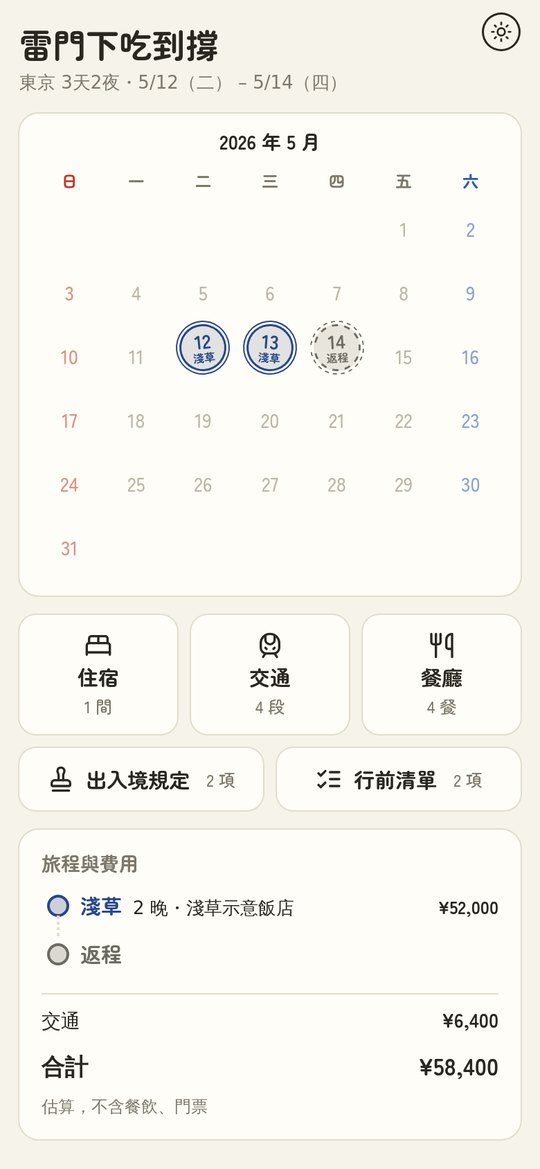
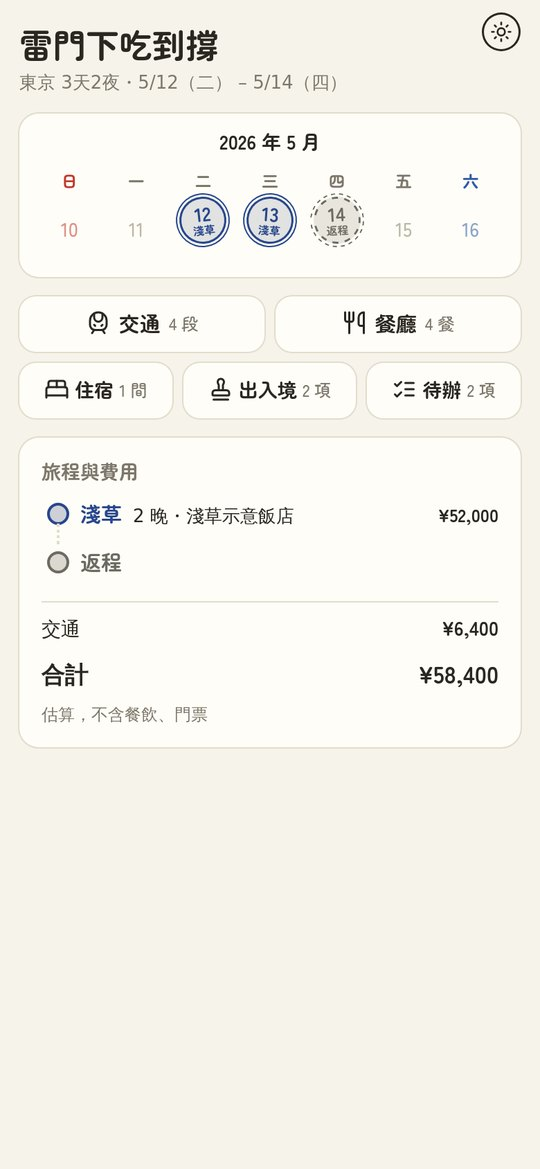
fix(reader): the phone home gives 旅程與費用 its room back (v3.1.2)
Since 交通 / 餐廳 joined the tiles, a trip with several stays lost its stay
list and total off the phone home. The user's picks on the design board:

- H1: the month card draws only the trip weeks (month_calendar marks the
  rest `ow`, the phone hides them; the desktop keeps the whole month), and
  the stay list keeps a floor of 86 px (two rows and a fade) with the total
  on screen; below the floor the home scrolls. CSS alone cannot say "content
  height, never below X" for a flex card, so the card's floor is summed from
  its parts' type (same in WebKit and Chromium).
- T1: the tiles are two rows of 40 px bars, 交通 / 餐廳 first, then 住宿 /
  出入境 / 待辦 as wide as their words; ink centred within 0.7 px (WebKit).
- W1: the phone's tiles say 出入境 / 待辦 so two-digit counts fit at 375 px;
  screen titles and the desktop keep the full names.
- A week of seven stamps no longer collapses to 34 px on the phone.

Guards injected with each bug went red (long names 8, no floor 6, no fixed
rows 2). Two older browser tests migrated: tile heights 86/45 -> 40, and the
home stamp's double-tap (the second tap now lands on another page).

README check: home line + phone-home shot updated; diagram/stop list still match.

Claude-Session: https://claude.ai/code/session_018PWF1vJ629UGLf2HycuCMa

diff --git a/tests_browser/test_reader_home_squeeze.py b/tests_browser/test_reader_home_squeeze.py
@@ -1,0 +1,173 @@
+"""The phone home gives its room back to 旅程與費用 (the user's picks on the design board:
+H1 + T1 + W1). The month card draws only the weeks that hold trip days (the day pages'
+mini calendar already does); the five tiles become two rows of 40 px bars -- 交通 / 餐廳
+first, then 住宿 / 出入境 / 待辦 as wide as their words; the stay list keeps a floor of
+two rows, below which the home scrolls instead. The desktop keeps its whole month,
+its tiles and their full names. WebKit (the iPhone) decides where the engines differ."""
+import io
+
+import pytest
+from conftest import DESKTOP, PHONE
+
+SE = {"width": 390, "height": 667}
+NARROW = {"width": 375, "height": 667}
+
+ROWS = """(()=>{const g=document.querySelector('.page.home .months .g');
+  return getComputedStyle(g).gridTemplateRows.split(' ').map(parseFloat)})()"""
+WEEKS = """(()=>{const s=new Set();document.querySelectorAll('.page.home .months .g>:not(.wd)').forEach(e=>{
+  const r=e.getBoundingClientRect();if(r.width>0&&!e.matches('.stamp'))s.add(Math.round(r.top))});
+  return s.size})()"""
+
+
+def _page(browser, url, vp, js=False):
+    pg = browser.new_page(viewport=vp, java_script_enabled=js)
+    pg.goto(url)
+    return pg
+
+
+# literals because these are the trips' calendars, counted by hand: bookings 5/12-14 (one
+# week), many stays 11/9-19 (two), rings 8/17-31 (three), two months 8/30-9/1 (one, where
+# the shipped page padded it to five)
+@pytest.mark.parametrize("fx,weeks", [("bookings_url", 1), ("many_stays_url", 2), ("long_rings_url", 3),
+                                      ("two_month_url", 1)])
+def test_the_phone_month_card_draws_only_the_trip_weeks(browser, request, fx, weeks):
+    pg = _page(browser, request.getfixturevalue(fx), PHONE)
+    rows = pg.evaluate(ROWS)
+    assert len(rows) == 1 + weeks, (browser.engine, fx, rows)          # the weekday row + the trip weeks
+    pg.close()
+
+
+def test_the_desktop_keeps_the_whole_month(browser, long_rings_url):
+    pg = _page(browser, long_rings_url, DESKTOP)
+    assert pg.evaluate(ROWS)[1:] and len(pg.evaluate(ROWS)) == 7, browser.engine     # August 2026: six weeks
+    pg.close()
+
+
+def test_a_week_of_stamps_keeps_its_row_height(browser, long_rings_url):
+    """8/23-29 is all trip days: the row fell to the stamp's 34 px and the rings touched."""
+    pg = _page(browser, long_rings_url, PHONE)
+    weeks = pg.evaluate(ROWS)[1:]
+    assert weeks and len(set(weeks)) == 1, (browser.engine, weeks)
+    pg.close()
+
+
+TILES = """(()=>[...document.querySelectorAll('.page.home .tiles .tile')].map(t=>{const r=t.getBoundingClientRect();
+  return {pg:t.htmlFor,name:t.querySelector('b').innerText.trim(),x:r.left,y:r.top,w:r.width,h:r.height,
+          clip:t.scrollWidth>t.clientWidth+0.5}}))()"""
+
+
+@pytest.mark.parametrize("vp", [PHONE, NARROW, {"width": 844, "height": 390}, {"width": 1023, "height": 700}],
+                         ids=["390", "375", "landscape", "1023"])
+def test_the_phone_tiles_are_two_rows_of_bars(browser, bookings_url, vp):
+    pg = _page(browser, bookings_url, vp)
+    t = {x["pg"]: x for x in pg.evaluate(TILES)}
+    top = [t["pg-transport"], t["pg-meals"]]
+    low = [t["pg-lodging"], t["pg-advisory"], t["pg-checklist"]]
+    assert all(round(x["h"]) == 40 for x in t.values()), (browser.engine, t)
+    assert top[0]["y"] == top[1]["y"] < low[0]["y"] == low[1]["y"] == low[2]["y"], (browser.engine, t)
+    assert abs(top[0]["w"] - top[1]["w"]) < 1 and top[0]["x"] < top[1]["x"], t
+    assert low[0]["x"] < low[1]["x"] < low[2]["x"], t
+    assert not [x for x in t.values() if x["clip"]], t
+    pg.close()
+
+
+def test_the_lower_row_is_as_wide_as_its_words(browser, bookings_url):
+    pg = _page(browser, bookings_url, PHONE)
+    t = {x["pg"]: x for x in pg.evaluate(TILES)}
+    assert abs(t["pg-lodging"]["w"] - t["pg-checklist"]["w"]) < 1 and t["pg-checklist"]["w"] < t["pg-advisory"]["w"], t   # 住宿 / 待辦: two characters each
+    pg.close()
+
+
+TWO_DIGITS = """(()=>{const s=(p,v)=>{document.querySelector(`.page.home label.tile[for=${p}] small`).innerHTML=v};
+  s('pg-lodging','12 間');s('pg-advisory','14 項');s('pg-checklist','28 項');
+  s('pg-transport','16 段<i class="todo">・12 待訂</i>');s('pg-meals','24 餐<i class="todo">・12 待訂</i>')})()"""
+
+
+@pytest.mark.parametrize("vp", [PHONE, NARROW], ids=["390", "375"])
+def test_two_digit_counts_still_fit_two_rows(browser, bookings_url, vp):
+    """The user's catch on the board: with two-digit counts 行前清單 fell to a third row."""
+    pg = _page(browser, bookings_url, vp, js=True)
+    pg.evaluate(TWO_DIGITS)
+    t = pg.evaluate(TILES)
+    assert len({round(x["y"]) for x in t}) == 2 and not [x for x in t if x["clip"]], (browser.engine, t)
+    pad = pg.evaluate("""(()=>[...document.querySelectorAll('.page.home .tiles .tile')].map(t=>{const r=t.getBoundingClientRect();
+      const k=[...t.children].map(c=>c.getBoundingClientRect()).filter(c=>c.width);
+      return Math.min(Math.min(...k.map(c=>c.left))-r.left, r.right-Math.max(...k.map(c=>c.right)))}))()""")
+    assert min(pad) >= 10, (browser.engine, pad)                # the board measured 12.8 px at 375
+    pg.close()
+
+
+@pytest.mark.parametrize("vp,names", [(PHONE, ["住宿", "交通", "餐廳", "出入境", "待辦"]),
+                                      (DESKTOP, ["住宿", "交通", "餐廳", "出入境規定", "行前清單"])],
+                         ids=["phone", "desktop"])
+def test_the_tile_names(browser, bookings_url, vp, names):
+    """W1: the phone's tiles say 出入境 / 待辦; the desktop and both screens' titles keep the full names."""
+    pg = _page(browser, bookings_url, vp)
+    assert [x["name"] for x in pg.evaluate(TILES)] == names, browser.engine
+    pg.evaluate("document.getElementById('pg-checklist').checked=true")
+    assert pg.evaluate("document.querySelector('section[data-pg=checklist] h2').innerText") == "行前清單"
+    pg.close()
+
+
+def _ink(pg, rect, dpr, thr):
+    from PIL import Image
+    x, y, w, h = rect
+    im = Image.open(io.BytesIO(pg.screenshot(clip={"x": x, "y": y - 4, "width": w, "height": h + 8}))).convert("L")
+    rows = [r for r in range(im.height) if any(im.getpixel((c, r)) < thr for c in range(im.width))]
+    return y - 4 + (rows[0] + rows[-1] + 1) / 2 / dpr
+
+
+ONE = "sel => { const r = document.querySelector(sel).getBoundingClientRect(); return [r.x, r.y, r.width, r.height] }"
+
+
+def test_each_tile_centres_its_ink(browser, bookings_url):
+    """Icon, name and count share the bar's centre: the board measured them within 0.7 px in
+    WebKit (Chromium 1.0) once the bar's foot took 2 px (the CJK ink sat 1.3 px low)."""
+    dpr = 3
+    pg = browser.new_page(viewport=PHONE, device_scale_factor=dpr, java_script_enabled=False)
+    pg.goto(bookings_url)
+    for p in ("pg-lodging", "pg-transport", "pg-meals", "pg-advisory", "pg-checklist"):
+        s = f".page.home label.tile[for={p}]"
+        t = pg.evaluate(ONE, s)
+        mid = t[1] + t[3] / 2
+        sm = pg.evaluate(ONE, s + " small")
+        got = [_ink(pg, pg.evaluate(ONE, s + " .lu"), dpr, 170), _ink(pg, pg.evaluate(ONE, s + " b"), dpr, 110),
+               _ink(pg, [sm[0], sm[1], 20, sm[3]], dpr, 200)]
+        assert all(abs(g - mid) <= 1.0 for g in got), (browser.engine, p, [round(g - mid, 2) for g in got])
+    pg.close()
+
+
+LIST = """(()=>{const H=innerHeight,c=document.querySelector('.page.home .trip'),ol=c.querySelector('ol'),
+  sum=c.querySelector('.tt.sum'),home=document.querySelector('.page.home');const o=ol.getBoundingClientRect();
+  const li=ol.querySelector('li').getBoundingClientRect().height;
+  return {rows:ol.clientHeight/li,all:ol.scrollHeight<=ol.clientHeight+1,
+          sum:sum.getBoundingClientRect().bottom<=H+1,scrolls:home.scrollHeight>home.clientHeight+1}})()"""
+
+
+@pytest.mark.parametrize("vp", [PHONE, {"width": 390, "height": 750}, SE], ids=["844", "750", "667"])
+def test_the_stay_list_keeps_two_rows_and_the_total(browser, many_stays_url, vp):
+    """Ten stays: the list scrolls inside itself, but never below two rows, and the total
+    stays on the screen on every iPhone height."""
+    pg = _page(browser, many_stays_url, vp)
+    m = pg.evaluate(LIST)
+    assert m["rows"] >= 2 - 0.05 and m["sum"] and not m["scrolls"], (browser.engine, vp, m)
+    pg.close()
+
+
+def test_a_screen_too_short_for_the_floor_scrolls_the_home(browser, many_stays_url):
+    """Held sideways the floor does not fit: the home scrolls rather than squeeze the list."""
+    pg = _page(browser, many_stays_url, {"width": 844, "height": 390})
+    m = pg.evaluate(LIST)
+    assert m["rows"] >= 2 - 0.05 and m["scrolls"], (browser.engine, m)
+    # the card's floor is summed from its parts' type (theme.py): it must end where its note ends
+    gap = pg.evaluate("""(()=>{const c=document.querySelector('.page.home .trip'),r=c.getBoundingClientRect();
+      return r.bottom-parseFloat(getComputedStyle(c).paddingBottom)-c.lastElementChild.getBoundingClientRect().bottom})()""")
+    assert abs(gap) <= 0.5, (browser.engine, gap)
+    pg.close()
+
+
+def test_a_short_stay_list_shows_whole(browser, bookings_url):
+    """The one-stay card fits whole with no inner scroll (nothing faded away)."""
+    pg = _page(browser, bookings_url, PHONE)
+    assert pg.evaluate(LIST)["all"], browser.engine
+    pg.close()

diff --git a/scripts/render/reader/theme.py b/scripts/render/reader/theme.py
@@ -225,7 +225,7 @@ details[open]>summary>.cv{{transform:rotate(-135deg);margin-top:-2px}}
 
 # The phone (spec v1.1 §3–§7): the page never scrolls. A day stacks the dashboard's three
 # blocks -- fixed header (.pcal), fixed map row (.pmap), and the list card (.plist), the
-# only scroller; the home is one screen; the toggle sits top-right; the map card drops
+# only scroller; the home is one screen (it scrolls only when the stay list would drop below two rows); the toggle sits top-right; the map card drops
 # prev/next and the legend and fills its width with a 4:3 frame. Ported from the decided
 # mockup (docs/superpowers/mockups/v11/gen_skeleton.py).
 PHONE_CSS = """
@@ -315,7 +315,20 @@ body:has(.pgf:checked) .page.day .unf::after{content:"";position:absolute;right:
 .page.home .month{background:var(--card);border-radius:14px;box-shadow:0 0 0 1px var(--rule);padding:10px 12px 12px}
 /* v1.1 topic 6 (pick P1): the day page mini stamp's proportion -- 14 px date in 34 px */
 .page.home .months .stamp{width:34px;height:34px}
-.page.home .hwrap{display:flex;flex-direction:column}.page.home .hside{display:contents}.page.home .ttl{order:1}.page.home .hcal{order:2}.page.home .tiles{order:3}.page.home .trip{order:4;background:var(--card);border-radius:14px;box-shadow:0 0 0 1px var(--rule);padding:14px 16px}.page.home .trip ol{max-height:168px;overflow:auto}.page.home .trip li{grid-template-columns:auto minmax(0,1fr) auto;align-items:baseline;padding-bottom:12px}.page.home .trip li b{font-size:15px}.page.home .trip li span{grid-column:2;grid-row:1;font-size:13px}.page.home .trip li em{grid-column:3;font-size:13px}.page.home .trip li::before{top:3px}.page.home .trip li:not(:last-child)::after{top:18px}
+/* the user's pick H1: the home's month card draws only the weeks that hold trip days, as the day
+   pages' mini calendar does; every week row keeps 46 px (a week of seven stamps drew 34, rings touching) */
+.page.home .months .g{grid-template-rows:24px;grid-auto-rows:46px}.page.home .months .g>.ow{display:none}
+/* the stay list's floor (H1): three stays or more, the list keeps 86 px -- two rows and the fade of a
+   third, as the board showed at 667 -- and the card keeps that list plus its own parts, whose heights
+   follow from their type (the same in WebKit and Chromium: padding 2 x 14, title 20 + 10, a total
+   row 8 + its line, the note 6 + its line, the rule above the first total 4 + 1). A flex card cannot
+   say "my content, but never below this" by itself: its smallest size is its whole list. Below the
+   floor the home scrolls (it has overflow-y: auto) */
+.page.home .trip:has(ol>li:nth-child(3)){min-height:calc(2 * 14px + 20px + 10px + 86px + var(--fl, 0px))}
+.page.home .trip:has(ol>li:nth-child(3)) ol{min-height:86px}
+.page.home .trip:has(.tt.sum){--fl:calc(4px + 1px + 8px + 17px * 1.6 + 6px + 12px * 1.6)}
+.page.home .trip:has(.tt:not(.sum)){--fl:calc(4px + 1px + 8px + 14px * 1.6 + 8px + 17px * 1.6 + 6px + 12px * 1.6)}
+.page.home .hwrap{display:flex;flex-direction:column}.page.home .hside{display:contents}.page.home .ttl{order:1}.page.home .hcal{order:2}.page.home .tiles{order:3}.page.home .trip{order:4;background:var(--card);border-radius:14px;box-shadow:0 0 0 1px var(--rule);padding:14px 16px}.page.home .trip{display:flex;flex-direction:column}.page.home .trip h3{line-height:20px}.page.home .trip ol{flex:0 1 auto;min-height:0;overflow:auto}.page.home .trip li{grid-template-columns:auto minmax(0,1fr) auto;align-items:baseline;padding-bottom:12px}.page.home .trip li b{font-size:15px}.page.home .trip li span{grid-column:2;grid-row:1;font-size:13px}.page.home .trip li em{grid-column:3;font-size:13px}.page.home .trip li::before{top:3px}.page.home .trip li:not(:last-child)::after{top:18px}
 .page.sub .ovbox{height:100%;display:flex;flex-direction:column}
 /* v2.2 (the user's pick C1): a sub page's top row is a day page's -- 「‹ 總覽」 at the top left, the
    title centred on the screen (1fr auto 1fr, the theme bubble floats over the right column) */

diff --git a/scripts/render/reader/bookings.py b/scripts/render/reader/bookings.py
@@ -59,7 +59,7 @@ def meals_screen(ctx):
 
 
 # the approved look (design board): the reader's own tokens only. Shared rules here; the
-# phone's 3 + 2 tile grid sits in the phone media block (the desktop keeps one per row).
+# phone's 2 + 3 tile rows sit in the phone media block (the desktop keeps one per row).
 CSS = """
 .bkd{font:700 15px var(--f-round);margin:14px 2px 6px}.bkd:first-child,.ft+.bkd{margin-top:4px}
 .bkrow summary,div.ci.bkrow{gap:2px}div.ci.bkrow{padding:10px 34px 10px 12px}
@@ -81,13 +81,20 @@ CSS = """
 .sgt{display:inline-block;margin-right:6px;font:700 11px var(--f-round);line-height:16px;padding:0 6px;border-radius:999px;color:var(--opt);border:1.5px solid var(--opt);vertical-align:1px}
 .lbk{display:flex;align-items:center;gap:6px;margin-top:4px;font-size:12.5px;color:var(--mut)}
 .lbk .bk{font-size:11px;line-height:16px;padding:0 6px}
-@media (max-width:1023px){.tiles{grid-template-columns:repeat(6,1fr)}.tiles .tile{grid-column:span 2}
-/* the user's pick C: the phone home stays one screen. 住宿 / 交通 / 餐廳 (used on the road) keep the
-   tall tile; 出入境規定 / 行前清單 take the desktop's bar (45 px), and when the screen is still short
-   the 旅程與費用 card gives up height first and scrolls inside itself -- its text never draws
-   outside the card (the user's call; a floor for the stay list is left to a later version) */
-.tiles .tile:nth-child(n+4){grid-column:span 3;flex-direction:row;justify-content:center;gap:8px;padding:12px}
-.tiles .tile:nth-child(n+4) small{margin-left:4px}
+.tile .tns{display:none}
+@media (max-width:1023px){
+/* the user's picks T1 + W1 (design board): two rows of 40 px bars -- 交通 / 餐廳 (used on the road,
+   their 待訂 needs the room) share the first row, 住宿 / 出入境 / 待辦 the second, each as wide as
+   its words. Each bar's foot takes 2 px: a CJK line's ink sits 1.3 px below its box's middle
+   (WebKit, measured on the board), so icon, name and count now centre on the bar. */
+.tiles{display:flex;flex-wrap:wrap;gap:8px}
+.tiles .tile{flex:1 1 auto;flex-direction:row;justify-content:center;align-items:center;gap:4px;height:40px;
+  padding:0 6px 2px;white-space:nowrap;font-size:14px}
+.tiles .tile .lu{width:18px;height:18px}
+.tiles :is(.tile[for=pg-transport],.tile[for=pg-meals]){order:-1;flex:1 1 calc(50% - 4px);gap:6px;padding:0 8px 2px;font-size:15px}
+.tiles .tnl{display:none}.tiles .tns{display:inline}
 .page.home .hwrap{height:100%;min-height:0}.page.home .ttl,.page.home .hcal,.page.home .tiles{flex:none}
-.page.home .trip{flex:0 1 auto;min-height:0;overflow-y:auto}}
+/* the 旅程與費用 card gives up height first, its stay list scrolling inside it, but the list keeps
+   two rows (the floor the user parked in v3.1.0); below that the home scrolls instead */
+.page.home .trip{flex:0 1 auto}}
 """

diff --git a/tests_browser/test_reader_bookings.py b/tests_browser/test_reader_bookings.py
@@ -1,5 +1,5 @@
 """交通 / 餐廳 on the shipped reader, both engines (WebKit is the iPhone): the five home tiles
-keep the old tile's size, the status pill sits on its name's line (ink, not boxes), the
+keep their bar heights, the status pill sits on its name's line (ink, not boxes), the
 desktop overlay keeps the home behind it, and the four pills stay apart in the dark theme."""
 import io
 
@@ -16,20 +16,15 @@ def _go(pg, pid):
     pg.wait_for_timeout(300)
 
 
-# 86 / 45: the tile heights before this change, measured on the shipped reader (the phone's
-# tall tile, the desktop's bar) -- literals because the sizes to keep are the old ones. The
-# phone's second row takes the desktop's bar (the user's pick C): the home must fit one screen.
-@pytest.mark.parametrize("vp,heights", [(PHONE, [86, 86, 86, 45, 45]), (DESKTOP, [45] * 5)], ids=["phone", "desktop"])
-def test_five_tiles_keep_the_old_tile_heights(browser, bookings_url, vp, heights):
+# 45: the desktop's bar, kept; the phone's tiles are two rows of 40 px bars since the user's
+# picks T1 + W1 (their geometry: tests_browser/test_reader_home_squeeze.py)
+@pytest.mark.parametrize("vp,heights", [(PHONE, [40] * 5), (DESKTOP, [45] * 5)], ids=["phone", "desktop"])
+def test_five_tiles_keep_their_heights(browser, bookings_url, vp, heights):
     pg = browser.new_page(viewport=vp)
     pg.goto(bookings_url)
     tiles = pg.evaluate(RECT, ".page.home label.tile")
     assert len(tiles) == 5
     assert [round(t[3]) for t in tiles] == heights, tiles
-    if vp is PHONE:                     # 3 + 2: the second row spans the first row's outer edges
-        a, b, c, d, e = tiles
-        assert d[0] == pytest.approx(a[0], abs=.5) and e[0] + e[2] == pytest.approx(c[0] + c[2], abs=.5)
-        assert d[2] == pytest.approx(e[2], abs=.5) and a[1] == b[1] == c[1] < d[1] == e[1]
     pg.close()
 
 
@@ -121,7 +116,8 @@ SPILL = """(()=>{const c=document.querySelector('.page.home .trip'),r=c.getBound
 
 
 # the user's call: the 旅程與費用 card may get shorter on a short screen, but its text never
-# draws outside it -- the card scrolls inside itself (the stay list's own floor is next version's)
+# draws outside it -- its stay list scrolls inside it down to a floor of two rows (H1), below
+# which the home scrolls (tests_browser/test_reader_home_squeeze.py)
 @pytest.mark.parametrize("vp", [{"width": 390, "height": 844}, {"width": 390, "height": 750},
                                 {"width": 390, "height": 667}, {"width": 844, "height": 390}],
                          ids=["844", "750", "667", "landscape"])

diff --git a/scripts/render/reader/month_calendar.py b/scripts/render/reader/month_calendar.py
@@ -97,24 +97,26 @@ def _head():
                    for k, w in enumerate(WEEKDAYS))
 
 
-def _off(date, k, plain=False):
-    return f'<span class="off{" sun" if k == 0 else " sat" if k == 6 else ""}">{_day_label(date, plain)}</span>'
+def _off(date, k, plain=False, ow=""):
+    return f'<span class="off{" sun" if k == 0 else " sat" if k == 6 else ""}{ow}">{_day_label(date, plain)}</span>'
 
 
 def _cells(week, trip, cur, month=None, rings=None, tapes=None):
     """A week of cells. With `month` the grid is that month alone: other months' days are
-    blank and its own 1st reads '1'."""
+    blank and its own 1st reads '1'. A week with no trip day marks its cells `ow`: the
+    phone's home draws only the trip weeks (the user's pick H1), the desktop all of them."""
     plain = month is not None
+    ow = "" if any(x in trip for x in week) else " ow"
     out = []
     for k, x in enumerate(week):
         if month is not None and x.month != month:
-            out.append("<span></span>")          # the other month draws its own days
+            out.append(f'<span class="{ow.strip()}"></span>' if ow else "<span></span>")   # the other month draws its own days
         elif x in trip:
             i, area, cls = trip[x]
             out.append(stamp(i, x, area, cls, cur == i, plain, (rings[i - 1] if rings and i <= len(rings) else ""),
                              tapes[i - 1] if tapes and i <= len(tapes) else None))
         else:
-            out.append(_off(x, k, plain))
+            out.append(_off(x, k, plain, ow))
     return "".join(out)
 
 

diff --git a/scripts/render/reader/home.py b/scripts/render/reader/home.py
@@ -108,7 +108,12 @@ def home(ctx):
     rings = [d.get("theme") or d.get("label") or "" for d in ctx.days]
     # v2.2: each day's tape for the day it is today (tapes.py)
     day_tapes = tapes.day_tapes(title, ctx.dates[0], [c for _, c in ctx.areas]) if ctx.dates else None
-    tiles_html = "".join(f'<label class="tile" for="{pg}">{icon(ic)}<b>{t}</b><small>{n}</small></label>'
+    # W1 (the user's pick): two-digit counts pushed the phone's third bar to a row of its own, so
+    # the phone says 出入境 / 待辦; the desktop and the screens' own titles keep the full names
+    short = {"pg-advisory": "出入境", "pg-checklist": "待辦"}
+    tiles_html = "".join(f'<label class="tile" for="{pg}">{icon(ic)}<b>'
+                         + (f'<span class="tnl">{t}</span><span class="tns">{short[pg]}</span>' if pg in short else t)
+                         + f'</b><small>{n}</small></label>'
                          for pg, ic, t, n in tiles)
     return (f'<section class="page home" data-pg="home"><div class="hwrap"><div class="hside">'
             f'<div class="ttl"><h1 class="headline">{esc(title)}</h1>'

diff --git a/tests_browser/test_reader_phone.py b/tests_browser/test_reader_phone.py
@@ -327,7 +327,11 @@ def test_a_tapped_control_neither_selects_nor_flashes(open_page, sel):
         style = close.evaluate("e=>{const s=getComputedStyle(e);return [s.webkitTapHighlightColor||'', s.webkitUserSelect||s.userSelect]}")
         assert style[0] in ("rgba(0, 0, 0, 0)", "transparent") and style[1] == "none", ("hd-close", style)
         return
-    if "tiles" not in sel:          # a tile's first tap opens its screen; the second lands there
+    # a tile's or a home stamp's first tap opens its screen and the second lands there: since the
+    # home draws only the trip weeks (H1) the first stamp sits in the top row, and the second tap
+    # met the day title's grey 「‹」 (no day before day 1; text, not a control). Their style above
+    # is what keeps them from selecting.
+    if "tiles" not in sel and ".home .month" not in sel:
         el.dblclick(force=True)
         assert pg.evaluate("String(getSelection())").strip() == "", sel
 

diff --git a/README.md b/README.md
@@ -3,7 +3,7 @@
 **用一句話請 Claude 排旅遊行程，拿到一份每個地點都查證過的行程：手機打開就能用，離線也能看。**
 
 <p align="center">
-  <img src="docs/images/readme/phone-home.jpg" width="250" alt="手機首頁：搞笑標題、紀念章月曆、住宿／交通／餐廳／出入境規定／行前清單、旅程與費用">
+  <img src="docs/images/readme/phone-home.jpg" width="250" alt="手機首頁：搞笑標題、只畫行程那幾週的紀念章月曆、交通／餐廳／住宿／出入境／待辦、旅程與費用">
   <img src="docs/images/readme/phone-day.jpg" width="250" alt="手機的每日行程：點開一站，照片、停留時間、營業時間、安排與來源">
   <img src="docs/images/readme/phone-map.jpg" width="250" alt="每日地圖：點時間膠囊跳到那一站">
 </p>
@@ -109,7 +109,7 @@ claude plugin marketplace update tripwork && claude plugin install tripwork
   <img src="docs/images/readme/phone-driver.jpg" width="250" alt="給司機看：全螢幕大字顯示店名與當地語言地址">
 </p>
 
-- **首頁**：你挑的搞笑標題、**紀念章月曆**（點哪天就進哪天），住宿／交通／餐廳／出入境規定／行前清單五個按鈕，加上旅程與費用。
+- **首頁**：你挑的搞笑標題、**紀念章月曆**（只畫行程那幾週，點哪天就進哪天），交通／餐廳／住宿／出入境／待辦五個按鈕，加上旅程與費用（住宿多也看得到合計）。
 - **交通、餐廳**：依日期列出你記下的航班、火車和每一餐，標出**已訂／還要訂／不用訂／自理**；點開看座位、人數、取消期限，訂位編號只露最後幾碼。自理（只是推薦、可以換別家）的餐廳在行程裡是綠色、標「建議」；已訂的那一站點開就看得到訂位；訂好的車班、航班，當天行程的移動列上就直接寫著車次和座位；飯店的訂房也寫在住宿頁。
 - **每天一頁**：從飯店出發、一站接一站、最後回到飯店，**每段都寫怎麼移動、幾分鐘、多遠**；備案就掛在它對應的那一站底下。
 - **點一站才展開**：照片、介紹、營業時間、**當地語言的地址**、來源；按「**給司機看**」就用全螢幕大字顯示店名和地址，直接把手機拿給計程車司機。

diff --git a/CHANGELOG.md b/CHANGELOG.md
@@ -1,5 +1,32 @@
 # Changelog
 
+## 3.1.2 — the phone home gives 旅程與費用 its room back
+
+### Fixed
+
+- **旅程與費用 no longer gets squeezed off the phone home.** Since 交通 and 餐廳 joined the tiles, a
+  trip with several stays showed only part of its stay list and no total on an iPhone 14, two rows
+  on a 750 px screen and only the card's title on an iPhone SE. Three changes, each picked on the
+  design board:
+  - **The month card draws only the weeks that hold trip days**, as the day pages' small calendar
+    already does (`month_calendar._cells` marks the other weeks; the phone hides them, the desktop
+    keeps its whole month). On the board's 8-day trip the card went from 348 to 164 px.
+  - **The five tiles are two rows of 40 px bars**: 交通 and 餐廳 first, half the width each, so a long
+    「24 餐・12 待訂」 fits; then 住宿, 出入境 and 待辦, each as wide as its words. The phone's tiles
+    say 出入境 / 待辦 so two-digit counts still fit at 375 px; their screens and the desktop keep
+    出入境規定 / 行前清單. Icon, name and count centre on the bar within 0.7 px (WebKit).
+  - **The stay list keeps a floor**: with three stays or more it scrolls inside the card down to
+    86 px (two rows and the fade of a third), and the total stays on screen; below that the home
+    scrolls instead of squeezing it further.
+- **A week of seven trip days no longer collapses** on the phone's month card: its row fell to the
+  stamp's 34 px and the rings touched. Every week row keeps 46 px.
+
+### Migration
+
+- None: update the plugin and re-export.
+
+Tests: 2338 passed, 2 skipped in CI (the two consumer-workspace checks skip there); with the consumer workspace, 2340 passed and the privacy check passes. Browser suite: 653 tests (Chromium and WebKit), 42 of them new (`tests_browser/test_reader_home_squeeze.py`); `test_the_pill_sits_on_its_names_ink[webkit]` fails about one run in six on 3.1.1 too (its day-page half can measure mid-scroll) and passes on rerun.
+
 ## 3.1.1 — a booked move shows its train and seats on the day
 
 ### Fixed
